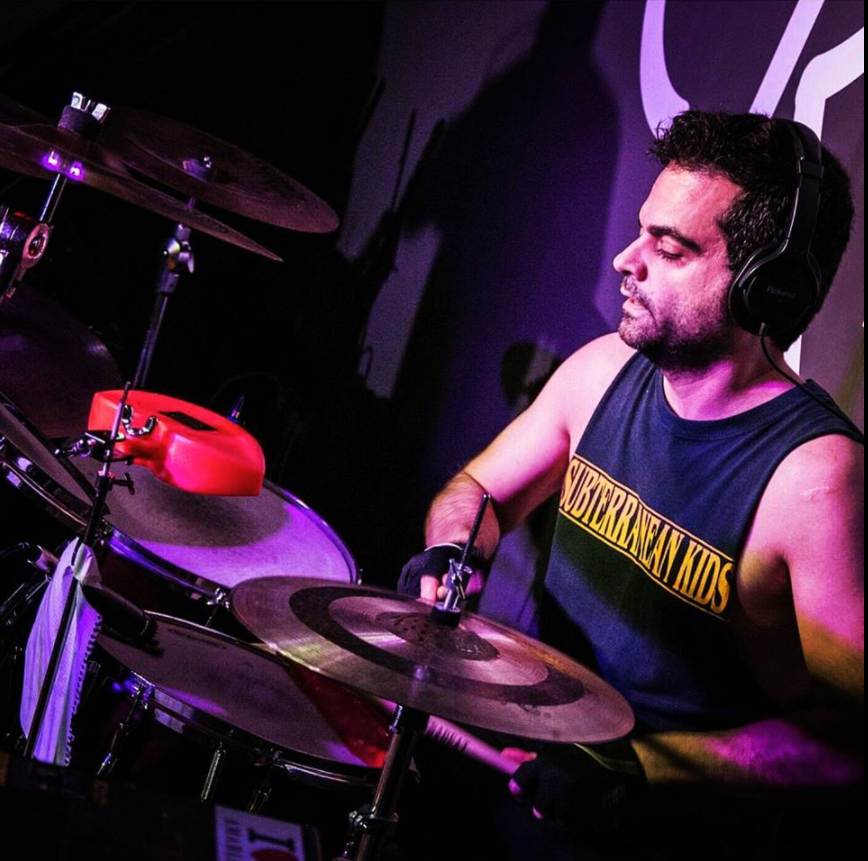
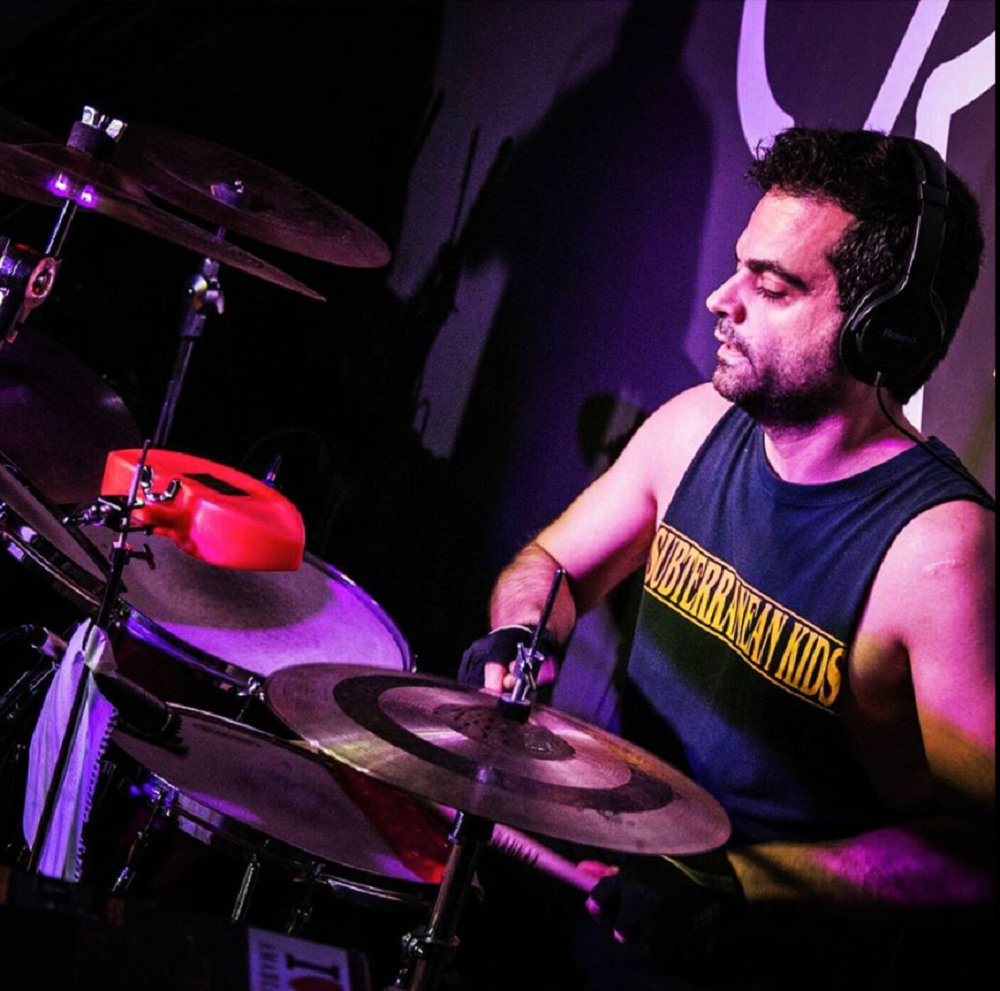
css transform

Changed region(s): [[0.6532, 0.5134, 0.8399, 0.6945], [0.9954, 0.0302, 1.0, 0.0906], [0.9954, 0.7247, 1.0, 0.7549]]

diff --git a/public/CSS/estilos.css b/public/CSS/estilos.css
@@ -30,6 +30,12 @@ body{
     background-repeat: no-repeat;
     height:100%;
     margin-top: 5%;
+    border-radius: 2%;
+    transform: rotate(358deg) scale(1) skew(1deg) translate(0px);
+    -webkit-transform: rotate(357deg) scale(1) skew(1deg) translate(0px);
+    -moz-transform: rotate(357deg) scale(1) skew(1deg) translate(0px);
+    -o-transform: rotate(357deg) scale(1) skew(1deg) translate(0px);
+    -ms-transform: rotate(357deg) scale(1) skew(1deg) translate(0px);
 }
 
 #biografiaTexto{
@@ -37,6 +43,7 @@ body{
     padding:2%;
     margin:2%;
     border-radius: 2%;
+    margin-top: 27%;
     
 }
 
